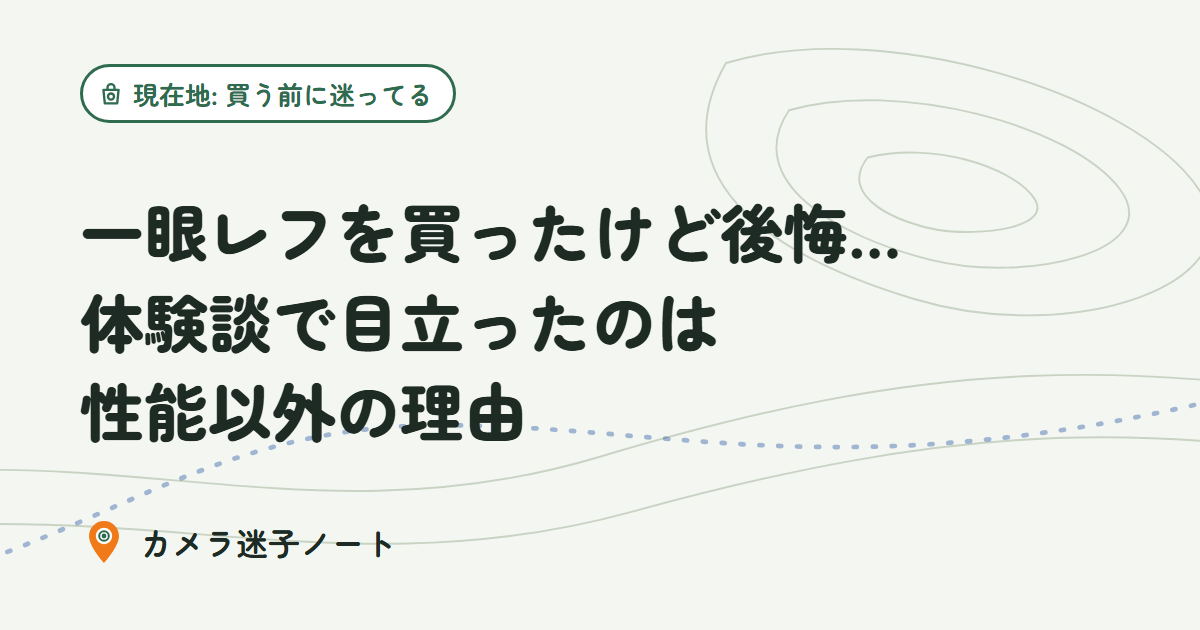
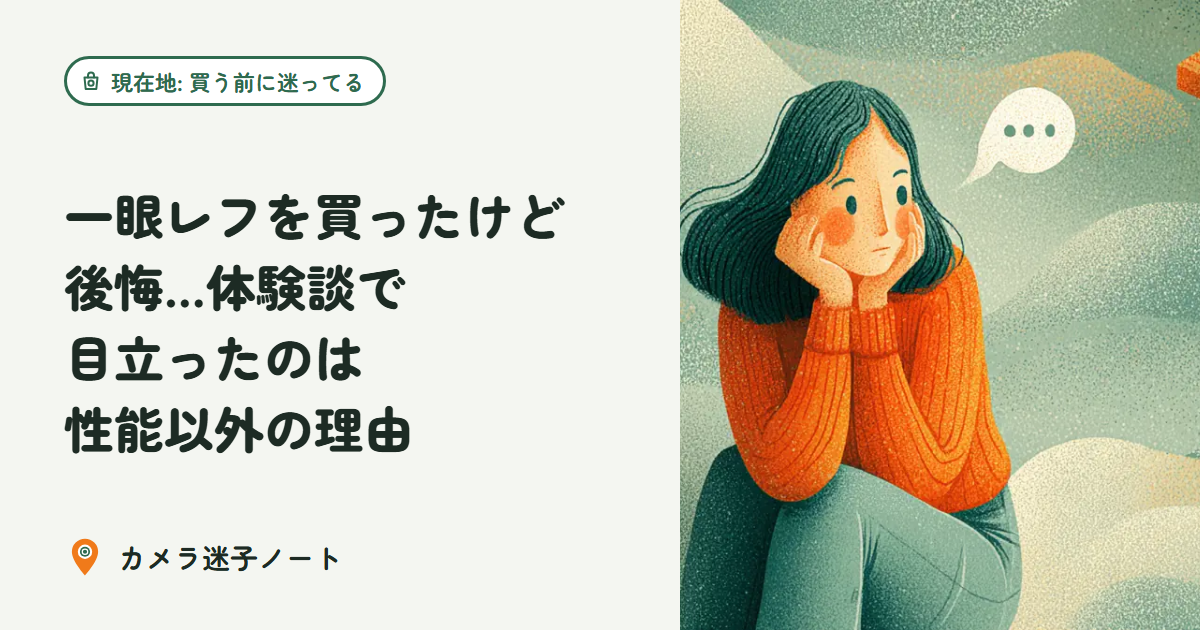
Add illustrations and photos across the site
Midjourney eyecatches for all six articles (also used as top-page thumbnails
and OGP), a hero illustration on the top page, and one Unsplash photo per
article with photographer credit in the caption.

diff --git a/index.html b/index.html
@@ -53,6 +53,7 @@
     <path d="M40 380 C 200 350, 260 270, 420 270 S 700 320, 1000 230" fill="none" stroke="var(--route)" stroke-width="3" stroke-dasharray="2 10" stroke-linecap="round" opacity=".4"/>
   </svg>
   <div class="inner">
+  <div class="hero-text">
     <p class="here"><svg width="14" height="14" viewBox="0 0 24 24" aria-hidden="true"><path d="M12 1.5a7.5 7.5 0 0 0-7.5 7.5c0 5.4 7.5 13.5 7.5 13.5s7.5-8.1 7.5-13.5A7.5 7.5 0 0 0 12 1.5z" fill="var(--pin)"/><circle cx="12" cy="9" r="4.1" fill="var(--surface)"/><circle cx="12" cy="9" r="2.9" fill="var(--sign)"/><circle cx="12" cy="9" r="1.55" fill="none" stroke="var(--surface)" stroke-width=".7"/></svg>現在地をえらんでください</p>
     <h1>いま、カメラのどこで迷ってる?</h1>
     <p class="lead">カメラで迷った人たちの声を調べて、つまずいた場所を地図のようにまとめています。むずかしい言葉は使いません。</p>
@@ -62,14 +63,16 @@
       <a class="signpost" href="#keep"><svg class="signpost-icon" width="26" height="26" viewBox="0 0 24 24" fill="none" stroke="currentColor" stroke-width="2" stroke-linecap="round" stroke-linejoin="round" aria-hidden="true"><path d="M12 21V3.5"/><path d="M12 5h6l2 2-2 2h-6"/><path d="M12 11H6l-2 2 2 2h6"/><path d="M9 21h6"/></svg><b>続けるか迷ってる</b><span>やめとけ、続かない、恥ずかしい。やめた人の声も続けた人の声も</span></a>
     </nav>
   </div>
+  <figure class="pic hero-art"><img src="images/illust/hero.webp" srcset="images/illust/hero-m.webp 720w, images/illust/hero.webp 1456w" sizes="(max-width: 859px) calc(100vw - 32px), 460px" width="1456" height="816" alt="地図の上でカメラを持って、まわりを見回している人のイラスト" fetchpriority="high" decoding="async"></figure>
+  </div>
 </div>
 <div class="destinations">
   <section class="destination" id="before" aria-labelledby="before-h">
     <h2 id="before-h"><svg class="icon" width="22" height="22" viewBox="0 0 24 24" fill="none" stroke="currentColor" stroke-width="2" stroke-linecap="round" stroke-linejoin="round" aria-hidden="true"><path d="M5.5 8.5h13l-1.2 11.5H6.7z"/><path d="M9 8.5V6.5a3 3 0 0 1 6 0v2"/><circle cx="12" cy="14.2" r="2.6"/></svg>買う前に迷ってる</h2>
     <p>本当にいる? スマホで十分? 買って後悔した人の声から考える</p>
     <ul class="stops">
-      <li><a href="koukai-koe/">一眼レフを買ったけど後悔…体験談で目立ったのは性能以外の理由</a></li>
-      <li><a href="smartphone-jubun/">スマホで十分、一眼はいらない?カメラで差が出やすい3つの場面</a></li>
+      <li class="has-thumb"><a href="koukai-koe/"><img src="images/illust/eye-koukai-s.webp" width="360" height="202" alt="" loading="lazy" decoding="async"><span>一眼レフを買ったけど後悔…体験談で目立ったのは性能以外の理由</span></a></li>
+      <li class="has-thumb"><a href="smartphone-jubun/"><img src="images/illust/eye-smart-s.webp" width="360" height="202" alt="" loading="lazy" decoding="async"><span>スマホで十分、一眼はいらない?カメラで差が出やすい3つの場面</span></a></li>
       <li class="soon">中古・型落ちで後悔した人の声と、みんながチェックしていたこと</li>
     </ul>
   </section>
@@ -78,8 +81,8 @@
     <p>重い、設定が多い、オートのまま。よくある止まり方と、ほどき方</p>
     <ul class="stops">
       <li class="soon">「重くて使わなくなった」という声と、みんながしていた対処法</li>
-      <li><a href="auto-sotsugyou/">カメラのオートモードから抜け出せない初心者は、まずPモードから</a></li>
-      <li><a href="kurai-bure/">暗いところで撮れない…室内・夜にブレる・ザラザラになる原因と対策</a></li>
+      <li class="has-thumb"><a href="auto-sotsugyou/"><img src="images/illust/eye-auto-s.webp" width="360" height="202" alt="" loading="lazy" decoding="async"><span>カメラのオートモードから抜け出せない初心者は、まずPモードから</span></a></li>
+      <li class="has-thumb"><a href="kurai-bure/"><img src="images/illust/eye-kurai-s.webp" width="360" height="202" alt="" loading="lazy" decoding="async"><span>暗いところで撮れない…室内・夜にブレる・ザラザラになる原因と対策</span></a></li>
       <li class="soon">写真が暗い・白っぽくなる時の「露出補正」</li>
       <li class="soon">三脚なしで手ブレを減らす持ち方と、シャッタースピードの目安</li>
       <li class="soon">旅行に一眼を持っていくか迷っている人へ</li>
@@ -91,9 +94,9 @@
     <h2 id="keep-h"><svg class="icon" width="22" height="22" viewBox="0 0 24 24" fill="none" stroke="currentColor" stroke-width="2" stroke-linecap="round" stroke-linejoin="round" aria-hidden="true"><path d="M12 21V3.5"/><path d="M12 5h6l2 2-2 2h-6"/><path d="M12 11H6l-2 2 2 2h6"/><path d="M9 21h6"/></svg>続けるか迷ってる</h2>
     <p>やめとけ、続かない、恥ずかしい。やめた人の声も続けた人の声も</p>
     <ul class="stops">
-      <li><a href="yametoke/">カメラ趣味はやめとけ?やめた人・続けた人11件の声から理由を数えてみた</a></li>
+      <li class="has-thumb"><a href="yametoke/"><img src="images/illust/eye-yame-s.webp" width="360" height="202" alt="" loading="lazy" decoding="async"><span>カメラ趣味はやめとけ?やめた人・続けた人11件の声から理由を数えてみた</span></a></li>
       <li class="soon">カメラが続かなかった人に多いパターン</li>
-      <li><a href="hazukashii/">カメラを持ち歩くのが恥ずかしいとき、人が試した工夫とその後</a></li>
+      <li class="has-thumb"><a href="hazukashii/"><img src="images/illust/eye-hazu-s.webp" width="360" height="202" alt="" loading="lazy" decoding="async"><span>カメラを持ち歩くのが恥ずかしいとき、人が試した工夫とその後</span></a></li>
     </ul>
   </section>
 </div>

diff --git a/yametoke/index.html b/yametoke/index.html
@@ -46,6 +46,7 @@
 <p class="here"><svg class="icon" width="14" height="14" viewBox="0 0 24 24" fill="none" stroke="currentColor" stroke-width="2" stroke-linecap="round" stroke-linejoin="round" aria-hidden="true"><path d="M12 21V3.5"/><path d="M12 5h6l2 2-2 2h-6"/><path d="M12 11H6l-2 2 2 2h6"/><path d="M9 21h6"/></svg>現在地: 続けるか迷ってる</p>
 <h1>カメラ趣味はやめとけ?やめた人・続けた人11件の声から理由を数えてみた</h1>
 <p class="meta">公開 2026-10-01 / 更新 2026-10-01</p>
+<figure class="pic eyecatch"><img src="../images/illust/eye-yame.webp" srcset="../images/illust/eye-yame-m.webp 720w, ../images/illust/eye-yame.webp 1200w" sizes="(max-width: 760px) calc(100vw - 32px), 720px" width="1200" height="673" alt="道しるべの前で、どちらの道へ行くか考えている人のイラスト" fetchpriority="high" decoding="async"></figure>
 <p>カメラを始めようか調べていると、「カメラ趣味 やめとけ」という言葉に、わりと早くぶつかるんですよね。もう始めている人なら、なおさら気になると思います。「やめとけ」と言われると、自分の迷いを肯定されたような、否定されたような、落ち着かない気持ちになります。</p>
 <p>この記事では、やめた人・やめかけた人・続けている人の記事を11件読んで、よく挙がっていた理由を5つに整理しました。そのあとに、続けた人の例と、続ける・やめるの間にある選択肢を並べています。</p>
 <p>先に正直に書いておくと、私はカメラを持っていません。なので「私が使ってみたら」という話は出てきません。書いてあるのは、私が読んだ他の人の声と、その整理だけです。</p>
@@ -139,6 +140,7 @@
 <p>検索でここに来た人の多くは、まだ買う前だと思います。集めた理由を、そのまま自分への質問に変えてみると、こんな感じになります。答えが出なくても、それ自体が1つの材料です。</p>
 <ul><li><strong>撮りたいものと、写真の行き先を言えるか。</strong> 動機が「趣味がほしいから」だけだと、撮るものがなくなったときに止まりやすい、という指摘が一般論の記事(沼探)にありました。撮ったあとの写真をどうするか(プリント、家族に送る、SNS、自分で見返す)まで言えると、続いた人の例に近づきます。</li><li><strong>週に何回、持ち出せそうか。</strong> 重さの理由は「持ち出さない日は一枚も残らない」に行き着きます。通勤や休日の動きの中に、カメラを持つ時間があるかを想像してみてください。</li><li><strong>スマホで足りない場面を、具体的に言えるか。</strong> 20年続けている人でも普段の記録の9割はスマホ、という例がありました。「スマホでは撮れない何か」が1つでもあるか、で向いている・向いていないの目安が少し見えると思います。</li><li><strong>お金の目安を知っているか。</strong> モノスクラムの方は、入門向けのミラーレスでも10万円以上かかると書いていました。本体のあとに、レンズや周辺機器が増えていくことも織り込んでおくと、あとから驚きにくいです。</li><li><strong>買って後悔した人の声も読んでおく。</strong> 一眼レフやミラーレスを買って後悔した人の体験談は、<a href="../koukai-koe/">一眼レフを買ったけど後悔…体験談で目立ったのは性能以外の理由</a>にまとめています。</li><li><strong>比べる相手がいると疲れやすいか。</strong> SNSで他人の写真や機材と比べて疲れた、という声が体験談8件中4件にありました。自分がそのタイプだと思うなら、最初から見せる場所を決めておくのも1つの手です。</li></ul>
 <h2>続ける・やめるの間にある選択肢</h2>
+<figure class="pic"><img src="../images/photo/yametoke-bag.webp" srcset="../images/photo/yametoke-bag-m.webp 720w, ../images/photo/yametoke-bag.webp 1200w" sizes="(max-width: 760px) calc(100vw - 32px), 720px" width="1200" height="800" alt="草の上に置かれた帆布のショルダーバッグ" loading="lazy" decoding="async"><figcaption>イメージ写真: <a href="https://unsplash.com/photos/s6M63HPGb5E" target="_blank" rel="noopener">Larry George II / Unsplash</a></figcaption></figure>
 <p>「続ける」か「やめる」かの二択で考えると苦しいのですが、読んだ記事の中には、その間にある選択肢がいくつか出てきました。押しつけるつもりはなく、こういう道もあった、という並べ方です。</p>
 <p><strong>軽い機材やスマホに寄せる。</strong> 一眼レフからミラーレスに替えた人、普段の記録はスマホにして、カメラは持ち出したい日だけにしている人がいました。ミラーレスは小さく作りやすい傾向はありますが、機種によって重さは違うので、そこは実物の仕様で確認が必要です。重さが理由なら、やめる前に試せることかもしれません。</p>
 <p><strong>しばらく置いておく。</strong> わっちさんのように、数ヶ月撮らない時期をはさんでから決めた人がいます。batoさんも、機材を手放したあとで、またやりたくなったらまた買えばいい、という考え方をしていました。今すぐ決めなくてもいい、というのは、選択肢の1つだと思います。</p>

diff --git a/koukai-koe/index.html b/koukai-koe/index.html
@@ -46,6 +46,7 @@
 <p class="here"><svg class="icon" width="14" height="14" viewBox="0 0 24 24" fill="none" stroke="currentColor" stroke-width="2" stroke-linecap="round" stroke-linejoin="round" aria-hidden="true"><path d="M5.5 8.5h13l-1.2 11.5H6.7z"/><path d="M9 8.5V6.5a3 3 0 0 1 6 0v2"/><circle cx="12" cy="14.2" r="2.6"/></svg>現在地: 買う前に迷ってる</p>
 <h1>一眼レフを買ったけど後悔…体験談で目立ったのは性能以外の理由</h1>
 <p class="meta">公開 2026-10-01 / 更新 2026-10-01</p>
+<figure class="pic eyecatch"><img src="../images/illust/eye-koukai.webp" srcset="../images/illust/eye-koukai-m.webp 720w, ../images/illust/eye-koukai.webp 1200w" sizes="(max-width: 760px) calc(100vw - 32px), 720px" width="1200" height="673" alt="棚に置いたままのカメラを見ながら、ほおづえをついて考えている人のイラスト" fetchpriority="high" decoding="async"></figure>
 <p>一眼レフやミラーレスを買って後悔した人の体験談を読んでいくと、性能が足りなかったという話は少なく、買った時の気持ちや、暮らしとの合い方の話が目立ちました。買うか迷っている人にも、買ってしまって迷っている人にも向けて、体験談と一般論の記事を合わせて11件、理由を分けて数えました。</p>
 <p>先に正直に書いておくと、私はカメラを持っていません。なので「私が使ってみたら」という話は出てきません。書いてあるのは、私が読んだ他の人の声と、その整理だけです。</p>
 <p>読んだ11件の内訳です。</p>
@@ -132,6 +133,7 @@
 <p>体験談の人たちが振り返っていたことを、自分への質問に変えてみました。答えが出なくても、それ自体が1つの材料です。誰の振り返りから来たかを添えています。</p>
 <ul><li><strong>憧れの先に、撮ってみたいものが1つ浮かぶか。</strong> 憧れやブームで買った人が8人中4人いました。憧れそのものは悪くないのですが、その先に撮りたいものがあったかどうかは、4人の話を読むと気になるところです。</li><li><strong>使わない日が続いても、カメラを見て平気か。</strong> すぎっちさんの後悔は、使わなかった自分に向いていました。毎日撮る前提を置かず、月に数回でも許せるかを先に考えてみる、という順番です。</li><li><strong>カバンに入れて出かける場面を、1つ思い浮かべてみる。</strong> 重さで持ち出さなくなった人が4人いました。ヒガシーサーさんは、持ち出さなかった日の写真は1枚も残らない、という考えから、写りより持ち出す回数を優先しています。</li><li><strong>スマホで困った瞬間が、1つ浮かぶか。</strong> カメラを続けているヒガシーサーさんでも、普段の記録の9割はスマホだそうです。スマホとの差の話は、<a href="../smartphone-jubun/">スマホで十分、一眼はいらない?</a>の記事に譲ります。</li><li><strong>レンズまで入れた総額を、先に決めてみる。</strong> レンズを買い足す余裕がなかった人が体験談にも、総額で考えるべきという声が一般論にもありました。ヒガシーサーさんは、本体とレンズ2本までで上限を決める派です。</li><li><strong>店頭で手に取って、構えてみたか。</strong> 2017年の質問者は、大きさと見た目に後悔しました。同じ相談の回答者は、かさばるかは個人差なので店で実機を触る、と助言しています。</li><li><strong>小さいカメラで足りないか、先に考えてみる。</strong> 2017年の質問者は、旅先の何気ない写真が中心ならコンデジで足りたかもしれない、と振り返っています。</li><li><strong>生活が変わっても、持ち続けたいか。</strong> 新しい趣味や就職で使わなくなった人がいました。数年先の自分を少しだけ想像してみるのも、1つの材料です。</li></ul>
 <h2>もう買って後悔している人へ:体験談の人たちがしたこと</h2>
+<figure class="pic"><img src="../images/photo/koukai-tana.webp" srcset="../images/photo/koukai-tana-m.webp 720w, ../images/photo/koukai-tana.webp 1200w" sizes="(max-width: 760px) calc(100vw - 32px), 720px" width="1200" height="800" alt="棚に並べて置かれたカメラ" loading="lazy" decoding="async"><figcaption>棚に置かれたカメラ。 イメージ写真: <a href="https://unsplash.com/photos/s1TgBqg62OU" target="_blank" rel="noopener">Art Lasovsky / Unsplash</a></figcaption></figure>
 <p>もう買ってしまって迷っている人向けに、体験談の人たちがそのあとどうしたかを並べます。こういう道があった、という並べ方です。</p>
 <p>まず、後悔がいつ来たかです。読んだ範囲では、こうでした。</p>
 <ul><li>2017年の知恵袋の質問者: 買って半年ほどで後悔が出てきた</li><li>ロードバイクを始めた回答者: 半年は毎週末使い、そのあと持ち歩かなくなった</li><li>就職後に軽いカメラを買った回答者: 5年ほど使ったあと</li><li>知恵袋の別の回答者(周りの観察): やる気満々で買って、1年後には放置されている人もいる</li></ul>

diff --git a/auto-sotsugyou/index.html b/auto-sotsugyou/index.html
@@ -45,6 +45,7 @@
 <p class="here"><svg class="icon" width="14" height="14" viewBox="0 0 24 24" fill="none" stroke="currentColor" stroke-width="2" stroke-linecap="round" stroke-linejoin="round" aria-hidden="true"><path d="M4 8h3l1.6-2.2h6.8L17 8h3a1 1 0 0 1 1 1v9a1 1 0 0 1-1 1H4a1 1 0 0 1-1-1V9a1 1 0 0 1 1-1z"/><circle cx="12" cy="13" r="3.8"/><path d="M11 11.6v2.8M13 11.6v2.8"/></svg>現在地: 買ったけど使えてない</p>
 <h1>カメラのオートモードから抜け出せない初心者は、まずPモードから</h1>
 <p class="meta">公開 2026-10-02 / 更新 2026-10-02</p>
+<figure class="pic eyecatch"><img src="../images/illust/eye-auto.webp" srcset="../images/illust/eye-auto-m.webp 720w, ../images/illust/eye-auto.webp 1200w" sizes="(max-width: 760px) calc(100vw - 32px), 720px" width="1200" height="673" alt="ダイヤルのような丸い広場で、次の区画へ歩き出そうとしている人のイラスト" fetchpriority="high" decoding="async"></figure>
 <p>オートから抜け出せないなら、最初の一歩はPモードです。ISO感度はオートにしておき、自分で触るのは露出補正だけにします。</p>
 <p>範囲は2つに絞ります。明るさが思い通りにならないならPと露出補正、背景をぼかしたいならA(キヤノンではAv)。</p>
 <p><strong>この記事で分かること</strong></p>
@@ -55,6 +56,7 @@
 <ol><li>モードダイヤルをPにする(ダイヤルがない機種は、説明書の撮影モードのページで)。画面のISO表示がAUTOかも見る(違えば説明書で変え方を確認)</li><li>説明書の索引で露出補正を引き、操作する場所を確認する</li><li>画面の大部分が白っぽいもの(白い壁や紙など)を、補正0と+1で1枚ずつ撮って並べる</li><li>補正を0に戻す</li></ol>
 <p>ここから下は、この手順の理由と、うまくいかないときの話です。</p>
 <h2 id="naze">オートばかりで抜け出せないのはなぜ?</h2>
+<figure class="pic"><img src="../images/photo/auto-dial.webp" srcset="../images/photo/auto-dial-m.webp 720w, ../images/photo/auto-dial.webp 1200w" sizes="(max-width: 760px) calc(100vw - 32px), 720px" width="1200" height="800" alt="カメラのモードダイヤル。AUTO・P・A・S・Mなどの印がある" loading="lazy" decoding="async"><figcaption>カメラのモードダイヤル(機種によって並びや表記は違います)。 イメージ写真: <a href="https://unsplash.com/photos/fqrJqMGXvpQ" target="_blank" rel="noopener">James Feaver / Unsplash</a></figcaption></figure>
 <p>Q&amp;Aサイトに、ミラーレス(レンズを交換できるカメラの一種)でショーを撮っている人の相談がありました。オートを卒業してうまく撮りたいが、どう勉強すればいいか、という内容です(<a href="https://detail.chiebukuro.yahoo.co.jp/qa/question_detail/q11311610706" target="_blank" rel="noopener">Yahoo!知恵袋の相談</a>)。回答は、AとSの特徴を知る、3つの数字の関係を覚えてとにかく撮る、などに分かれていました。答えが1つに決まらないから、どこから手を付けていいか分からなくなるんですよね。暗い場所で動くものを撮る悩みは、<a href="../kurai-bure/">前の記事</a>のほうが近いです。</p>
 <p>抜け出した人が、抜け出す前の気持ちを振り返った文章もあります。取材で撮影もするライターの人のブログです。</p>
 <figure class="voice">

diff --git a/kurai-bure/index.html b/kurai-bure/index.html
@@ -45,6 +45,7 @@
 <p class="here"><svg class="icon" width="14" height="14" viewBox="0 0 24 24" fill="none" stroke="currentColor" stroke-width="2" stroke-linecap="round" stroke-linejoin="round" aria-hidden="true"><path d="M4 8h3l1.6-2.2h6.8L17 8h3a1 1 0 0 1 1 1v9a1 1 0 0 1-1 1H4a1 1 0 0 1-1-1V9a1 1 0 0 1 1-1z"/><circle cx="12" cy="13" r="3.8"/><path d="M11 11.6v2.8M13 11.6v2.8"/></svg>現在地: 買ったけど使えてない</p>
 <h1>暗いところで撮れない…室内・夜にブレる・ザラザラになる原因と対策</h1>
 <p class="meta">公開 2026-10-02 / 更新 2026-10-02</p>
+<figure class="pic eyecatch"><img src="../images/illust/eye-kurai.webp" srcset="../images/illust/eye-kurai-m.webp 720w, ../images/illust/eye-kurai.webp 1200w" sizes="(max-width: 760px) calc(100vw - 32px), 720px" width="1200" height="673" alt="夜、ランプのそばで眠る猫にカメラを向けている人のイラスト" fetchpriority="high" decoding="async"></figure>
 <p>暗い場所で撮った写真がブレたり、ザラザラになったりするのは、光が足りないからです。カメラは足りない分を3つの方法で補いますが、その代わりにブレやザラザラが出ます。すぐ試せるのは、部屋の明かりをつける・どこかに置いて撮る・ズームを広い側に戻す、あたりです。</p>
 <p>この記事は、一眼レフやミラーレス(レンズを交換できるカメラ)で、撮れてはいるのにブレる・ザラザラになる場合の話です。ブレもザラザラもなく、ただ暗く写るだけなら、<a href="#hayami">露出](../yougo/#roshutsu)(明るさの設定)の話に近いので、用語集のほうが合うと思います。先に対策だけ知りたい人は、[症状別の早見表</a>へどうぞ。</p>
 <p>私はカメラを持っていないので、ニコン・キヤノン・ソニーの取扱説明書と公式の入門ページを照らし合わせて確かめました。自分で撮って試した話は出てきません。</p>
@@ -203,6 +204,7 @@
 <h2>室内・夜にブレない・ザラザラを減らす対策</h2>
 <p>仕組みが分かったところで、対策を症状ごとに分けます。書くのは、取扱説明書や公式の入門ページにあるものと、図1の理屈から言えることだけです。</p>
 <h3>光を足す(どの症状にも)</h3>
+<figure class="pic tall"><img src="../images/photo/kurai-heya.webp" srcset="../images/photo/kurai-heya-m.webp 720w, ../images/photo/kurai-heya.webp 800w" sizes="(max-width: 392px) calc(100vw - 32px), 360px" width="800" height="1000" alt="ランプだけがともる夜の部屋とソファ" loading="lazy" decoding="async"><figcaption>ランプだけの夜の部屋。 イメージ写真: <a href="https://unsplash.com/photos/LEOzPAFt4Og" target="_blank" rel="noopener">Zeyad Taha / Unsplash</a></figcaption></figure>
 <p>いちばん手前の対策は、光を増やすことです。部屋の明かりをつける、明るい方を向く、明るい場所に移る。これはメーカーの推奨として見つけたのではなく、図1の裏返しです。光が増えれば、シャッターを速くでき、ISO感度も上げずにすみます。</p>
 <h3>手ブレ(画面全体がブレる)</h3>
 <p>構え方から始めます。ニコンの構え方のレッスンでは、脇を締めて構えることに加えて、こんな方法が挙げられています。</p>

diff --git a/smartphone-jubun/index.html b/smartphone-jubun/index.html
@@ -46,6 +46,7 @@
 <p class="here"><svg class="icon" width="14" height="14" viewBox="0 0 24 24" fill="none" stroke="currentColor" stroke-width="2" stroke-linecap="round" stroke-linejoin="round" aria-hidden="true"><path d="M5.5 8.5h13l-1.2 11.5H6.7z"/><path d="M9 8.5V6.5a3 3 0 0 1 6 0v2"/><circle cx="12" cy="14.2" r="2.6"/></svg>現在地: 買う前に迷ってる</p>
 <h1>スマホで十分、一眼はいらない?カメラで差が出やすい3つの場面</h1>
 <p class="meta">公開 2026-10-02 / 更新 2026-10-02</p>
+<figure class="pic eyecatch"><img src="../images/illust/eye-smart.webp" srcset="../images/illust/eye-smart-m.webp 720w, ../images/illust/eye-smart.webp 1200w" sizes="(max-width: 760px) calc(100vw - 32px), 720px" width="1200" height="673" alt="片手にスマホ、片手にカメラを持って見比べている人のイラスト" fetchpriority="high" decoding="async"></figure>
 <p>ふだんの写真ならスマホで足りる、という声は、カメラを使ってきた人からも出ていました。カメラで差が出やすいのは暗い・遠い・ぼかすの3つの場面で、ここはカメラとスマホのメーカーが仕組みを説明しています。</p>
 <p>一眼(レンズを付け替えられるカメラ。一眼レフとミラーレスの両方)がいるかどうかは、この3つで困った覚えがあるかで決まる、というのが私の見立てです。</p>
 <p><a href="#sensor">センサーの大きさ</a>、<a href="#ookii">大きいと何が変わるか</a>、<a href="#keisan">計算で作る写真</a>、<a href="#zoom">遠くを撮るときのズーム</a>の順に見て、<a href="#shitsumon">買う前の3つの質問</a>と<a href="#hayami">困りごと別の早見表</a>にまとめます。4人の声は、その後ろに置きました。</p>
@@ -99,6 +100,7 @@
 </figure>
 <p>2019年の話なので、いまのPixelも同じ考えかは分かりません。この記事の暗い・遠い・ぼかすは、この3つをやさしく言い直したものです。</p>
 <h2 id="keisan">スマホは、計算で写真を作っている</h2>
+<figure class="pic"><img src="../images/photo/smartphone-te.webp" srcset="../images/photo/smartphone-te-m.webp 720w, ../images/photo/smartphone-te.webp 1200w" sizes="(max-width: 760px) calc(100vw - 32px), 720px" width="1200" height="800" alt="スマホのカメラで湖と山の景色を撮っている手元" loading="lazy" decoding="async"><figcaption>スマホで景色を撮っているところ。 イメージ写真: <a href="https://unsplash.com/photos/FWoH2qhLb5I" target="_blank" rel="noopener">Josh Power / Unsplash</a></figcaption></figure>
 <p>センサーは小さいのに夜景やボケがきれいに見える理由を、メーカーの説明(公式ページと説明会の記事)で読むと、答えは複数枚の合成とデータ処理でした。</p>
 <p>Googleの夜景モードは、何枚も連写して合成し、画像を平均化してノイズを減らす仕組みです(<a href="https://www.watch.impress.co.jp/docs/news/1175014.html" target="_blank" rel="noopener">説明会の記事</a>)。Google自身の言い方では、こうです。</p>
 <figure class="voice">

diff --git a/hazukashii/index.html b/hazukashii/index.html
@@ -45,6 +45,7 @@
 <p class="here"><svg class="icon" width="14" height="14" viewBox="0 0 24 24" fill="none" stroke="currentColor" stroke-width="2" stroke-linecap="round" stroke-linejoin="round" aria-hidden="true"><path d="M12 21V3.5"/><path d="M12 5h6l2 2-2 2h-6"/><path d="M12 11H6l-2 2 2 2h6"/><path d="M9 21h6"/></svg>現在地: 続けるか迷ってる</p>
 <h1>カメラを持ち歩くのが恥ずかしいとき、人が試した工夫とその後</h1>
 <p class="meta">公開 2026-10-02 / 更新 2026-10-02</p>
+<figure class="pic eyecatch"><img src="../images/illust/eye-hazu.webp" srcset="../images/illust/eye-hazu-m.webp 720w, ../images/illust/eye-hazu.webp 1200w" sizes="(max-width: 760px) calc(100vw - 32px), 720px" width="1200" height="673" alt="カメラを入れたトートバッグを下げて、街を歩いている人のイラスト" fetchpriority="high" decoding="async"></figure>
 <p>撮りたいものは目の前にあるのに、人がいるとカメラを出せない。何が恥ずかしいのかは人によって違い、試した工夫も違っていました。慣れた人もいれば、街ではカメラを使わなくなった人もいます。</p>
 <p>私はカメラを持っていないので、ここにあるのは掲示板やnoteで読んだ26人の声と、私なりの読み分けです。<a href="../yametoke/">カメラ趣味はやめとけ?</a>の記事では、周りの目が恥ずかしいという理由を短くしか扱えなかったので、今回はそこだけを掘りました。</p>
 <h2 id="tameshita">試した人がいたこと</h2>
@@ -149,6 +150,7 @@
 </figure>
 <p>同じ相談にも、一人のときはカメラを表に出さないが子どもと一緒なら出しやすい、という人がいます。一人で撮りたい人には使えない工夫です。</p>
 <h2 id="sonogo">慣れる? 慣れた人と、街では使わなくなった人</h2>
+<figure class="pic tall"><img src="../images/photo/hazukashii-michi.webp" srcset="../images/photo/hazukashii-michi-m.webp 720w, ../images/photo/hazukashii-michi.webp 800w" sizes="(max-width: 392px) calc(100vw - 32px), 360px" width="800" height="1000" alt="カメラを片手に持って、並木道を歩いていく人の後ろ姿" loading="lazy" decoding="async"><figcaption>イメージ写真: <a href="https://unsplash.com/photos/Y9JRpXGE5G0" target="_blank" rel="noopener">Maksym Tymchyk / Unsplash</a></figcaption></figure>
 <p>乗り越えた・慣れた側だと私が読んだ人は7人です(うち1人はカメラレンタルの紹介もしているサイトの書き手)。中身には幅があり、今はあまり気にしない人から、9年目でもソワソワする、時々気が引ける、と残る部分を書く人までいます。</p>
 <p>途中の人もいます。街中で動画を回す恥ずかしさを書いたtktk。さんは、一回やれば二回目は少し気楽になる、と回数を重ねている最中です。</p>
 <figure class="voice">

diff --git a/style.css b/style.css
@@ -254,3 +254,21 @@ a.term { color: inherit; text-decoration: underline dotted var(--sign); text-dec
 }
 
 .aff-px { position: absolute; width: 1px; height: 1px; border: 0; }
+
+/* ---- 画像(イラスト・写真、2026-10-03) ---- */
+.pic { margin: 24px 0; }
+.pic img { display: block; width: 100%; height: auto; border-radius: 12px; background: var(--contour); }
+.pic figcaption { margin-top: 6px; font-size: var(--fs-small); color: var(--ink-sub); }
+.pic figcaption a { color: var(--ink-sub); }
+.pic.tall { max-width: min(360px, 72%); }
+.pic.eyecatch { margin: 12px 0 28px; }
+.map-hero .inner { display: grid; gap: 8px 32px; align-items: center; }
+.map-hero .hero-art { margin: 8px 0 0; }
+.map-hero .hero-art img { border-radius: 16px; box-shadow: 0 1px 0 var(--contour); }
+@media (min-width: 860px) {
+  .map-hero .inner { grid-template-columns: minmax(0, 1.1fr) minmax(0, .9fr); }
+  .map-hero .hero-art { margin: 0; }
+}
+.stops .has-thumb a { display: flex; gap: 12px; align-items: center; }
+.stops .has-thumb img { flex: none; width: 112px; height: auto; aspect-ratio: 360 / 202; object-fit: cover; border-radius: 8px; background: var(--contour); }
+.stops li.has-thumb::before { top: calc(50% - 8px); }

diff --git a/README.md b/README.md
@@ -16,6 +16,7 @@
 
 - ロゴマーク(現在地ピン+レンズ)とアイコン6種(before/stuck/keep/caution/voice/term)の正本は `../tools/brand_assets.py`。`images/`のSVGはgen_pages.pyが書き出す
 - OGP・ロゴPNG・SNS投稿画像は `../tools/export_images.py` でPCのChrome(ヘッドレス)から書き出す。費用なし
+- イラスト・写真(2026-10-03〜)は `images/illust/`・`images/photo/` の WebP。台帳は `../tools/images.py`、変換は `../tools/prep_image.py`(本体・720px版 `-m`・一覧サムネ `-s`)。記事中は原稿に `<!-- IMG:key -->`、アイキャッチとトップの一覧サムネは EYECATCH から自動
   - `base` → `images/ogp.png`・`logo-horizontal.png`・`logo-square-512.png`・`apple-touch-icon.png`
   - `article <slug> "<タイトル>" <before|stuck|keep>` → `<slug>/ogp.png`
   - `x-post "<見出し>" "<本文>" [出典]` / `note "<タイトル>"` → `../design/export/`(uuhai0625の既存アカウントでの先行発信用)
